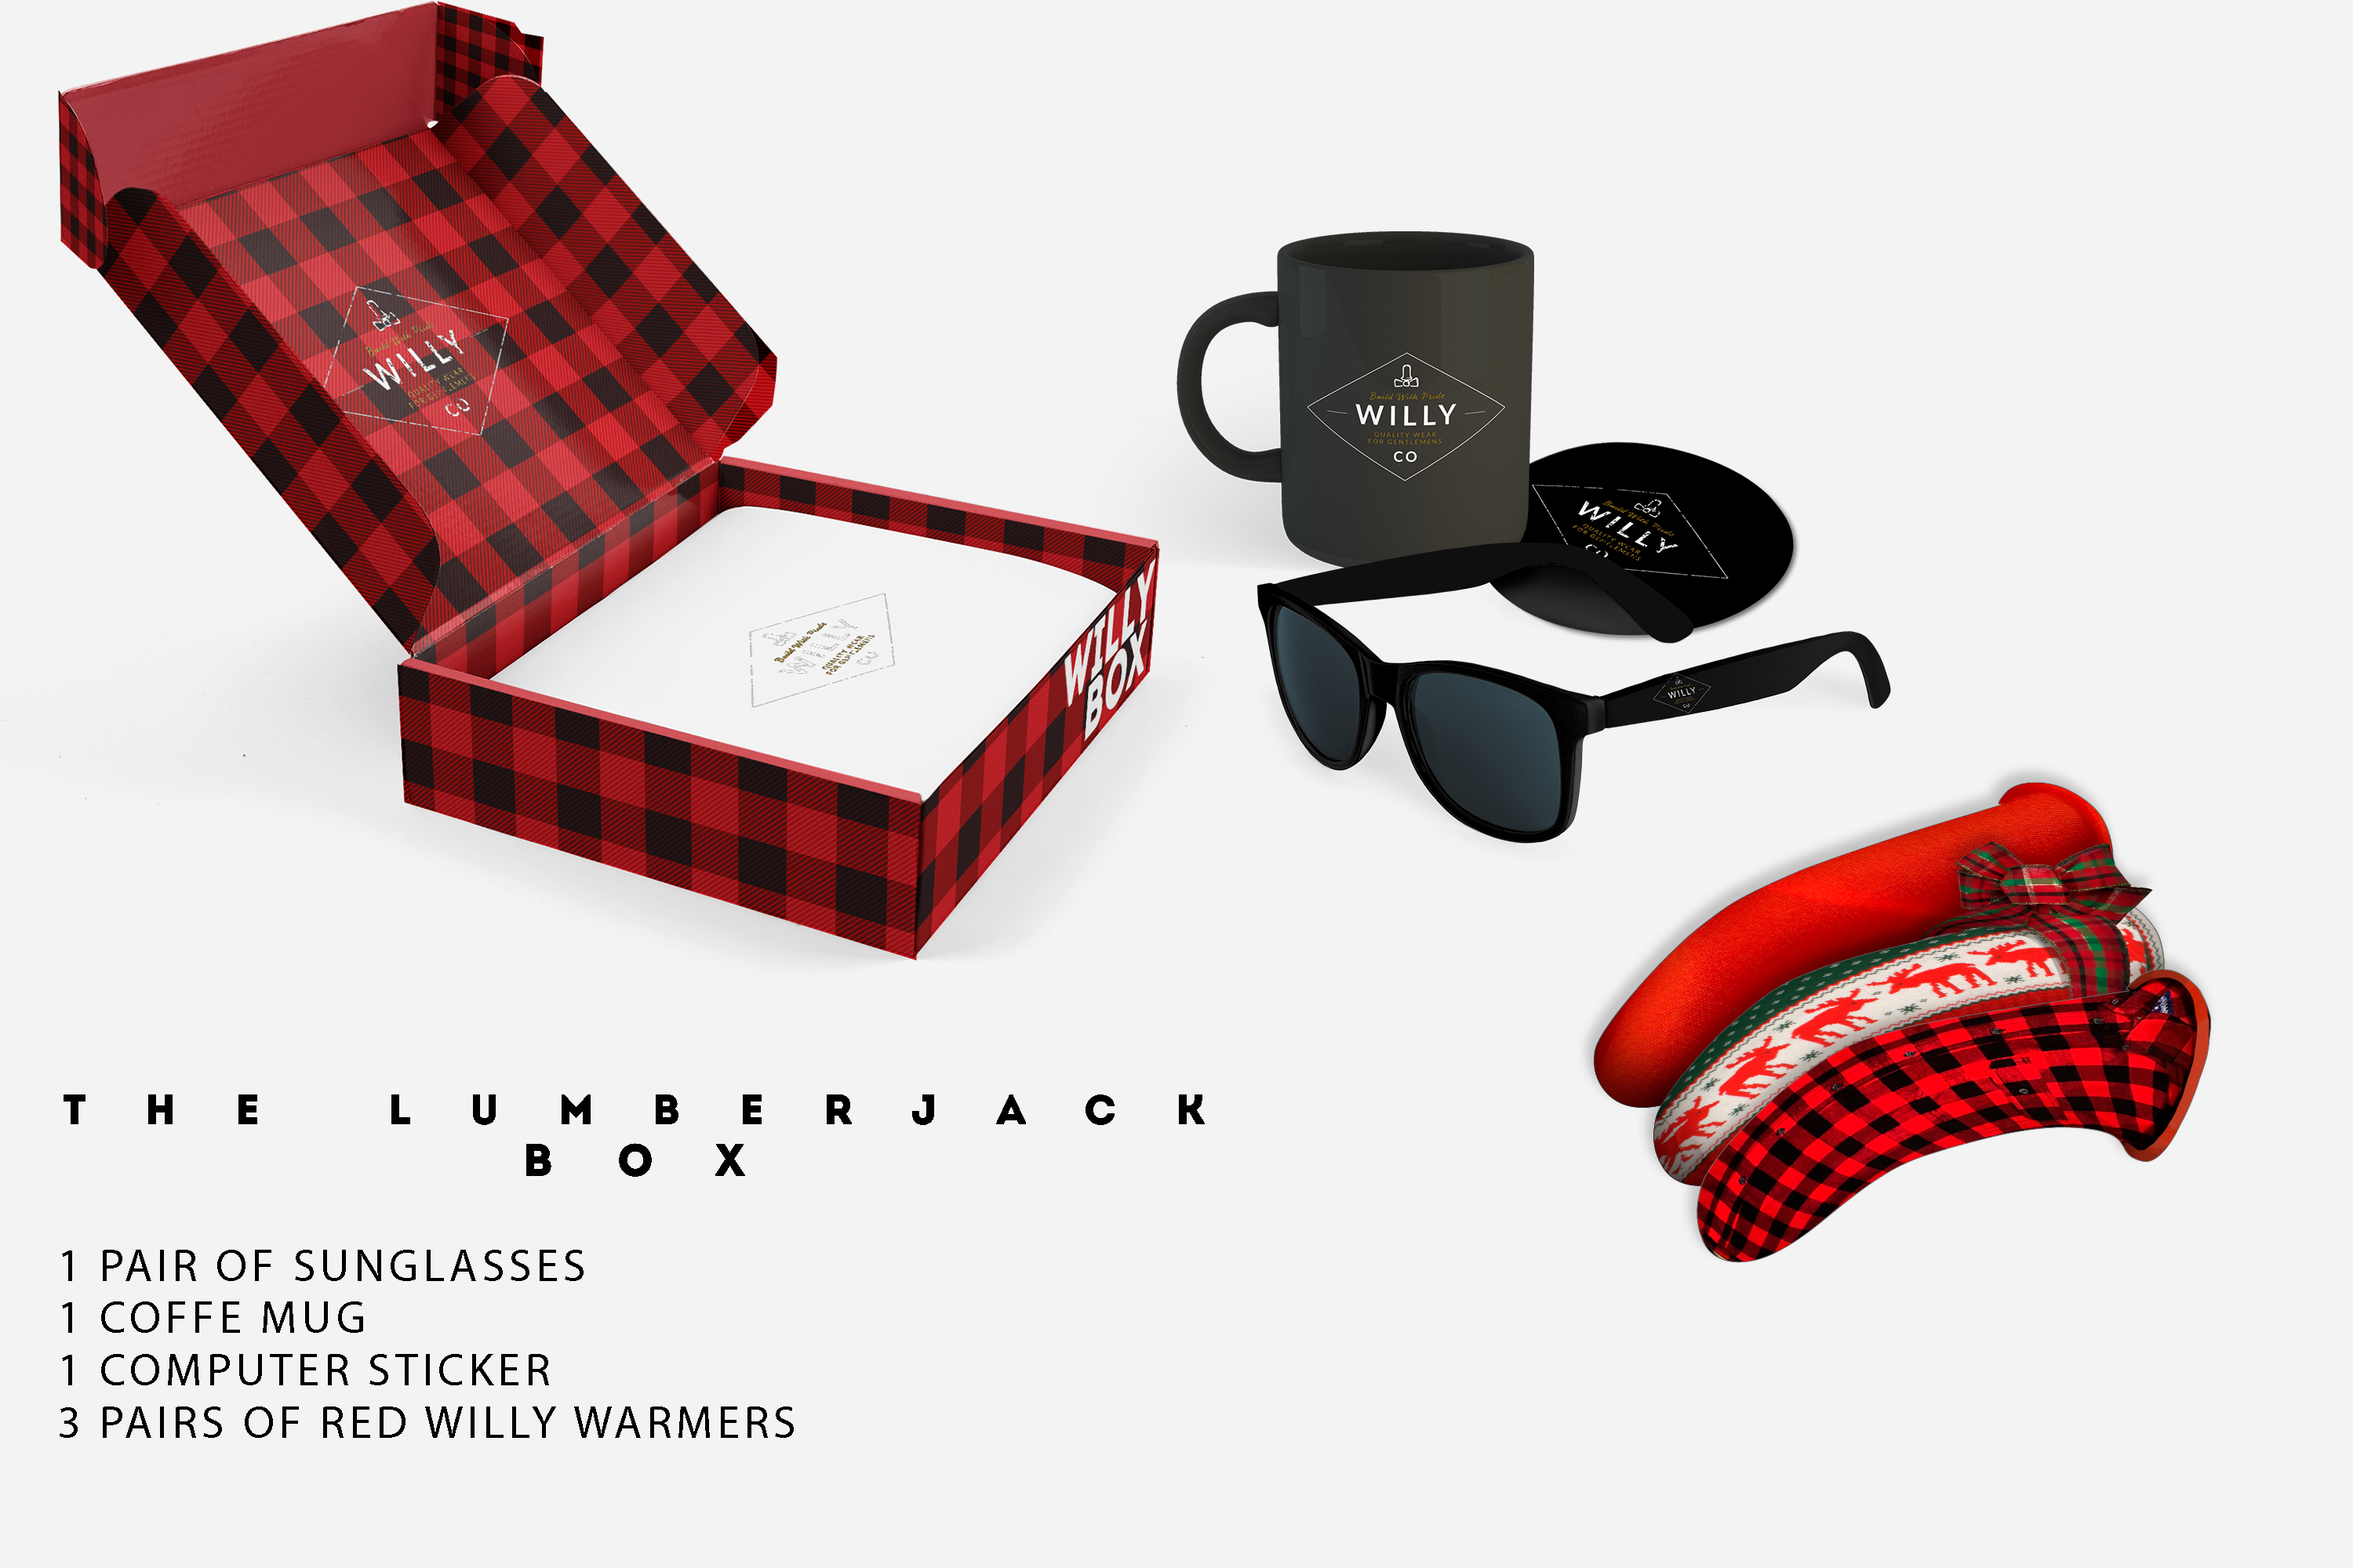
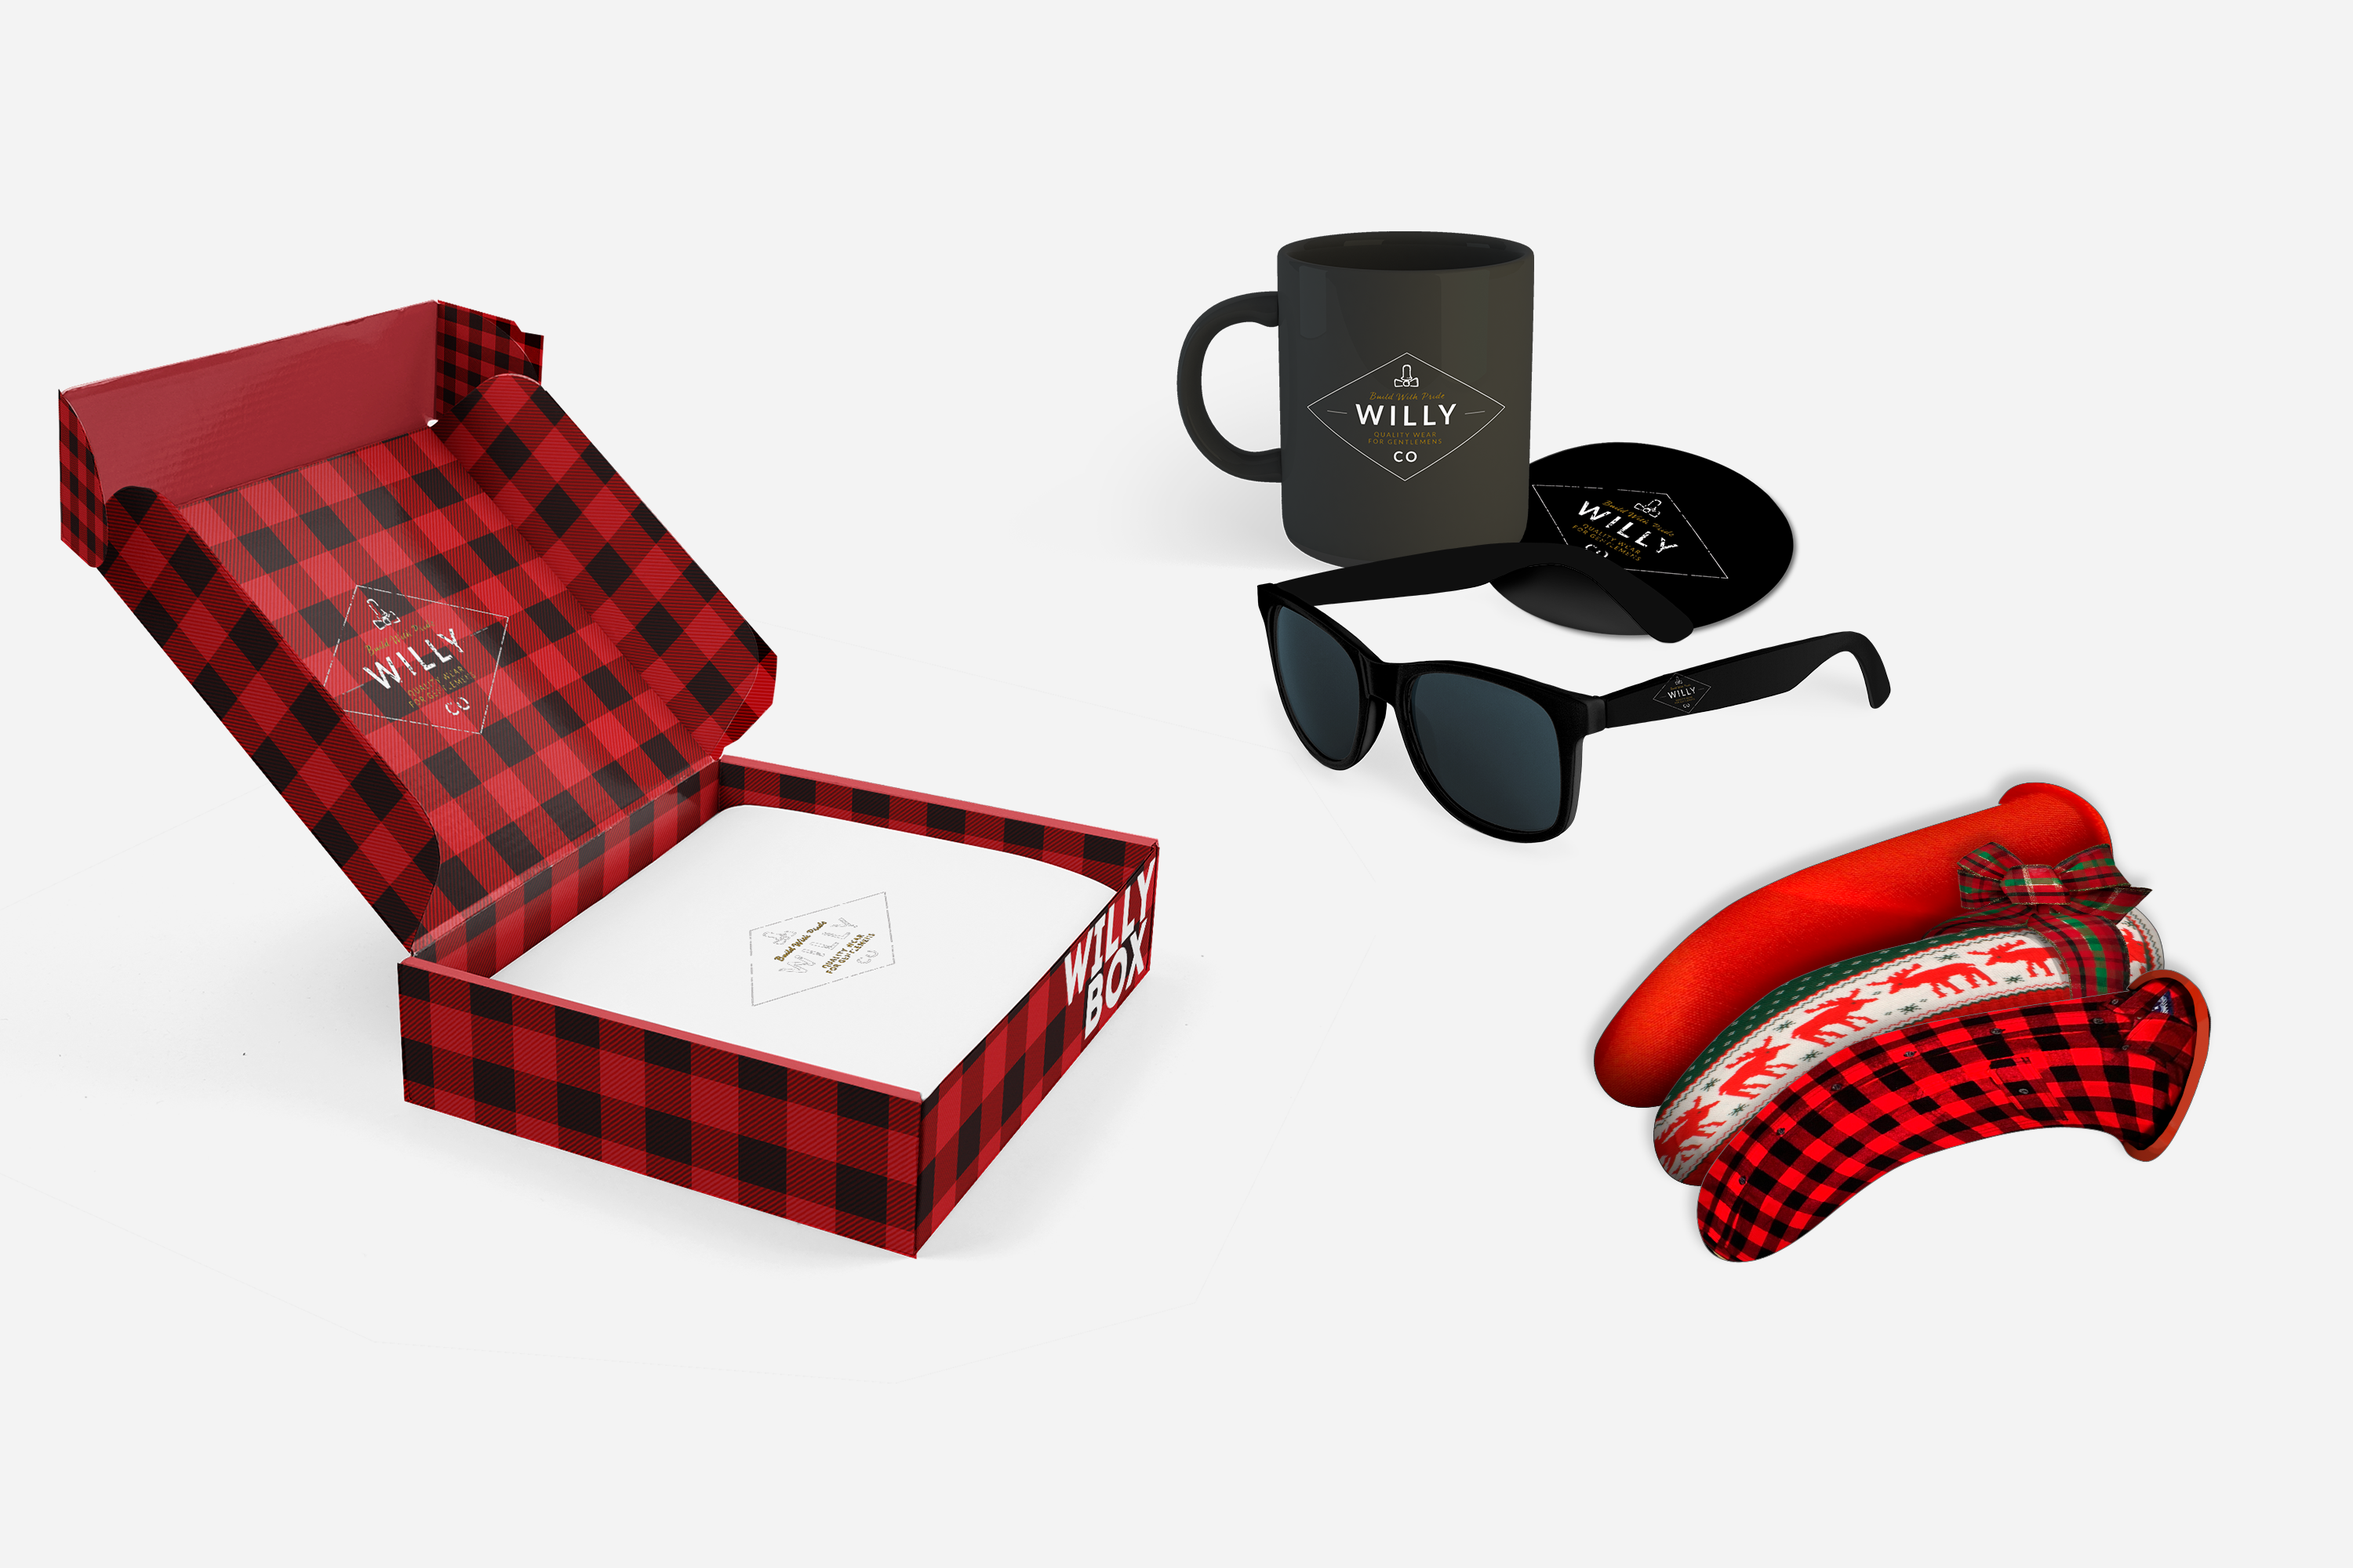
Last month's box
New layout, and colors

diff --git a/index.html b/index.html
@@ -101,10 +101,10 @@
 	  </div>
 
     <div class="info">
-      <h1 style="text-align:center;">Last Months Willy Box™</h1>
+      <h1 style="text-align:center;">Last Month's Willy Box™</h1>
 	  <div class="omfavn">
       <div class="flex-3">
-        <h1 style="text-align:center;">THE LUMBERJACK</h1>
+        <h1 style="text-align:center; padding:12%;">THE LUMBERJACK</h1>
         <p style="text-align:center;" >1 PAIR OF SUNGLASSES <br> 1 COFFEE MUG <br> 1 COMPUTER STICKER <br> 3 PAIRS OF RED WILLY WARMERS </p>
       </div>
       <div class="flex-4">

diff --git a/stylesheets/style.css b/stylesheets/style.css
@@ -50,14 +50,17 @@ img {
 }
 
 .omfavn {
+  background-color: #f3f3f3;
   display: flex;
   width: 100%;
 }
 
 .flex-3 {
+  background-color: #f3f3f3;
   width: 50%;
 }
 .flex-4 {
+  background-color: #f3f3f3;
   width: 50%;
   align; right;
 }
@@ -175,7 +178,8 @@ header .logo img {
 }
 
 .info {
-  background: #eeeeee;
+  background-color: #f3f3f3;
+
 }
 
 .info .curly-text {
